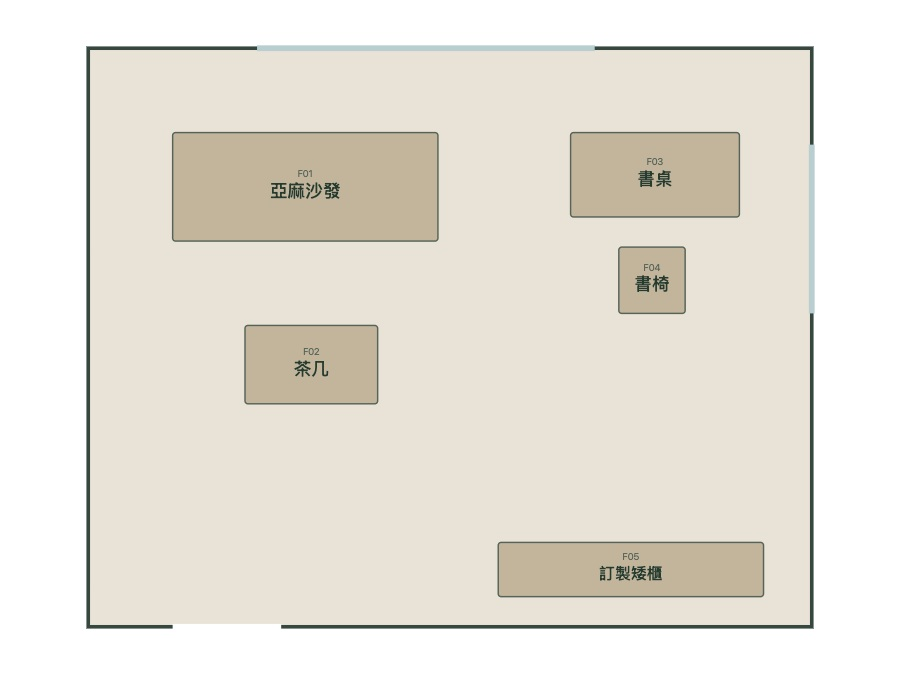
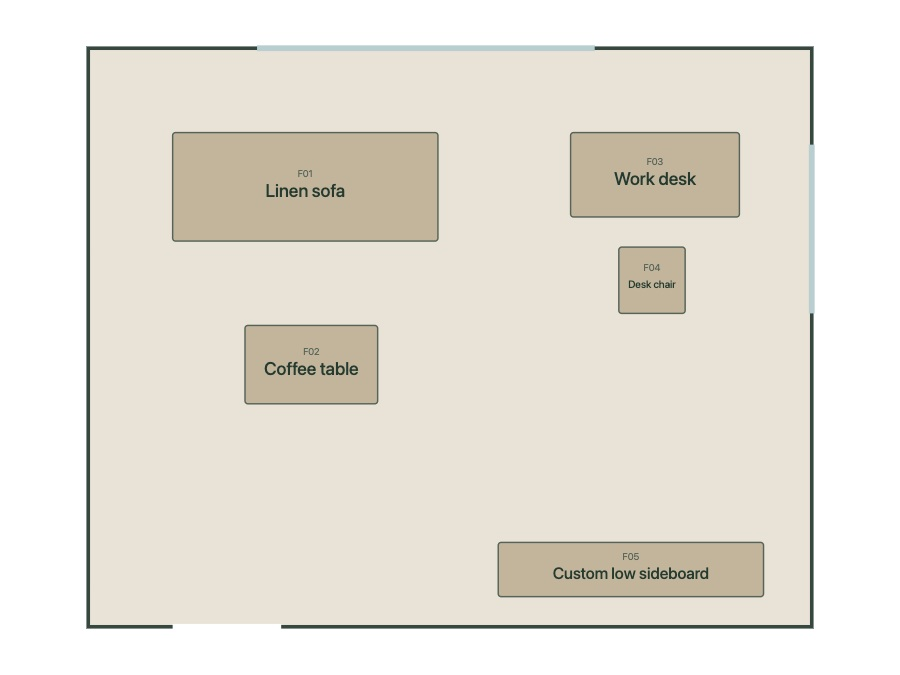
docs: separate English and Chinese layout previews

diff --git a/README.zh-TW.md b/README.zh-TW.md
@@ -18,7 +18,7 @@
     <td width="50%" valign="top"><strong>2. 3D 設計</strong></td>
   </tr>
   <tr>
-    <td width="50%" valign="top"><a href="docs/showcase/five-deliverables/layout.svg"><img src="docs/showcase/five-deliverables/01-layout.jpg" alt="同一個空間的乾淨平面配置，包含門窗與五件家具範圍" width="440" height="330"></a></td>
+    <td width="50%" valign="top"><a href="docs/showcase/five-deliverables/layout-zh-TW.svg"><img src="docs/showcase/five-deliverables/01-layout-zh-TW.jpg" alt="同一個空間的乾淨平面配置，包含門窗與五件家具範圍" width="440" height="330"></a></td>
     <td width="50%" valign="top"><a href="docs/showcase/five-deliverables/02-3d.jpg"><img src="docs/showcase/five-deliverables/02-3d.jpg" alt="打開外牆的彩色互動空間模型與日光預覽" width="440" height="330"></a></td>
   </tr>
   <tr>

diff --git a/docs/showcase/five-deliverables/README.md b/docs/showcase/five-deliverables/README.md
@@ -2,6 +2,8 @@
 
 These previews show real outputs of the bundled S01 room example. Each JPEG uses the same 900 × 675 px canvas. The browser keeps the layout, interactive geometry, image-gen results, MEP references and engineering sheets in separate modes of one review page.
 
+The English README uses [English furniture labels](layout.svg); the Traditional Chinese README uses [Chinese furniture labels](layout-zh-TW.svg). Both layouts share the same source geometry, canvas and camera-free plan framing.
+
 | Preview | Actual source | Meaning |
 | --- | --- | --- |
 | [1. Layout](layout.svg) | Room, opening and furniture coordinates in the shared structured project | Clean nominal furniture footprints for discussing arrangement; no invented measured dimensions |
